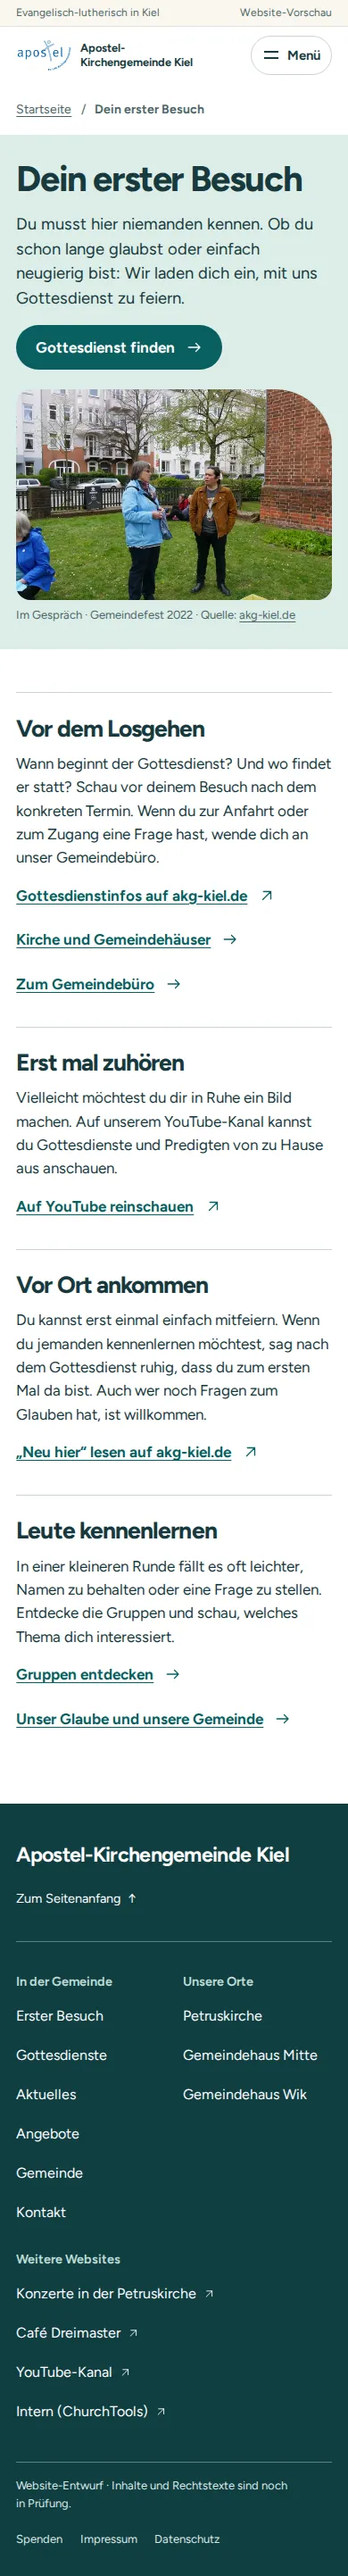
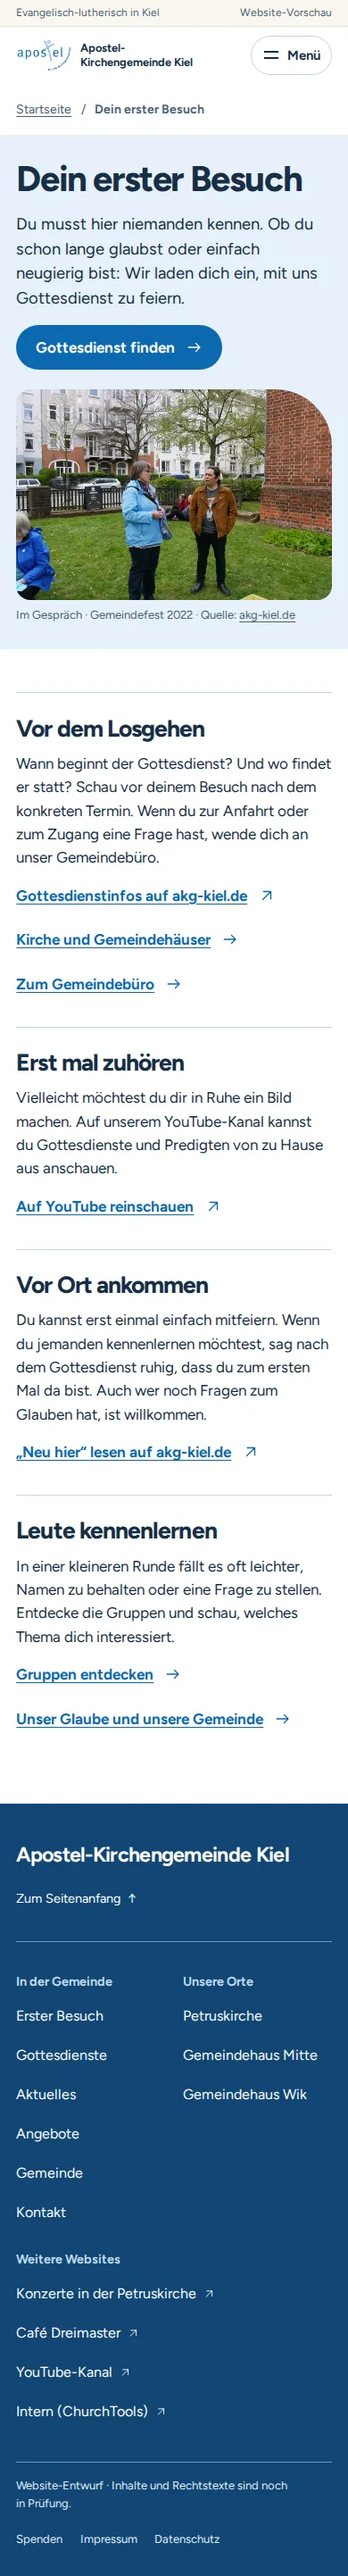
Lead with Apostel blue and keep the no-script visit accessible

diff --git a/src/styles/site.css b/src/styles/site.css
@@ -9,14 +9,15 @@
 }
 :root {
   --display: Figtree, system-ui, sans-serif;
-  --ink: #183a3e;
-  --deep: #103e41;
-  --sea: #095f60;
+  --ink: #172f46;
+  --deep: #124675;
+  --blue: #0c68b0;
+  --sky: #e6f1fa;
   --mint: #dceee8;
   --sand: #faf7ef;
   --sun: #ffe39c;
-  --muted: #4d6668;
-  --line: #c8d6d1;
+  --muted: #4a6175;
+  --line: #c6d5df;
   --focus: #ac4216;
   --space: clamp(3rem, 6vw, 6rem);
   --gutter: clamp(16px, 4.7vw, 4.5rem);
@@ -114,7 +115,7 @@ main:focus {
   line-height: 1.3;
 }
 .action {
-  background: var(--sea);
+  background: var(--blue);
   color: white;
   text-decoration: none;
   border-radius: 100vmax;
@@ -126,7 +127,7 @@ main:focus {
   background: var(--deep);
 }
 .route-link {
-  color: var(--sea);
+  color: var(--blue);
   padding-block: 0.5em;
 }
 a svg {
@@ -242,7 +243,7 @@ a svg {
 }
 .wide-nav a[aria-current],
 .menu a[aria-current] {
-  color: var(--sea);
+  color: var(--blue);
   text-decoration-thickness: 2px;
 }
 .intern-link,
@@ -276,7 +277,7 @@ a svg {
 }
 .foot-head {
   padding-bottom: 1.6rem;
-  border-bottom: 1px solid #608080;
+  border-bottom: 1px solid #7194b4;
 }
 .foot-head p {
   font-weight: 680;
@@ -295,7 +296,7 @@ a svg {
 .foot-columns h2 {
   font: 650 0.9rem/1.4 var(--display);
   letter-spacing: 0;
-  color: #bddbd4;
+  color: #c3ddf3;
   margin-bottom: 0.45rem;
 }
 .foot-columns a {
@@ -305,10 +306,10 @@ a svg {
   width: 0.8em;
 }
 .foot-end {
-  border-top: 1px solid #608080;
+  border-top: 1px solid #7194b4;
   padding-top: 1rem;
   font-size: 0.8125rem;
-  color: #dce9e5;
+  color: #e0edf7;
 }
 .foot-end nav {
   flex-wrap: wrap;
@@ -332,13 +333,25 @@ a svg {
   .menu summary::-webkit-details-marker {
     display: none;
   }
-  .menu-sheet {
+  /* Only overlay content when focus-exit dismissal has been installed. */
+  .menu[open]:not([data-overlay]) {
+    flex-basis: 100%;
+  }
+  .menu[open]:not([data-overlay]) summary {
+    width: fit-content;
+  }
+  .menu[open]:not([data-overlay]) .wrap {
+    width: 100%;
+  }
+  .menu[data-overlay] .menu-sheet {
     position: absolute;
     inset: 100% 0 auto;
+  }
+  .menu-sheet {
     background: white;
     color: var(--ink);
     border-block: 1px solid var(--line);
-    box-shadow: 0 1.5rem 2rem -1.2rem #123a4050;
+    box-shadow: 0 1.5rem 2rem -1.2rem #14395d50;
   }
   .menu-sheet > .wrap {
     padding-block: 0.7rem 1.2rem;

diff --git a/src/styles/interior.css b/src/styles/interior.css
@@ -41,7 +41,7 @@
   margin-top: var(--space);
 }
 .in-visit {
-  background: var(--mint);
+  background: var(--sky);
   padding-block: clamp(1.75rem, 4.7vw, 4rem);
 }
 .in-visit .parish-photo img {
@@ -79,7 +79,7 @@
   background: var(--sand);
 }
 .in-tint {
-  background: var(--mint);
+  background: var(--sky);
 }
 .in-panel {
   background: var(--sand);
@@ -162,7 +162,7 @@
 }
 .in-history dt {
   font-size: 1.45rem;
-  color: var(--sea);
+  color: var(--blue);
   font-weight: 700;
 }
 .in-detail {
@@ -224,7 +224,7 @@
   margin-top: 0.4rem;
 }
 .in-news-row h3 a {
-  color: var(--sea);
+  color: var(--blue);
 }
 .in-news-row h3 svg {
   display: inline;
@@ -295,7 +295,7 @@
   place-items: center;
   border-radius: 50%;
   background: var(--mint);
-  color: var(--sea);
+  color: var(--blue);
 }
 .in-plus::before,
 .in-plus::after {

diff --git a/src/styles/welcome.css b/src/styles/welcome.css
@@ -64,7 +64,7 @@
   max-width: 40ch;
   font-size: clamp(1.12rem, 1.55vw, 1.34rem);
   line-height: 1.45;
-  color: #eff7f4;
+  color: #f0f6fb;
 }
 .welcome-actions {
   display: flex;
@@ -162,7 +162,7 @@
   border-top: 1px solid var(--line);
   text-decoration: none;
   font-weight: 680;
-  color: var(--sea);
+  color: var(--blue);
 }
 .together-choices a:hover,
 .update-list a:hover {
@@ -184,7 +184,7 @@
   display: inline-flex;
   align-items: center;
   min-height: 44px;
-  color: var(--sea);
+  color: var(--blue);
 }
 .updates {
   background: var(--sand);

diff --git a/docs/design.md b/docs/design.md
@@ -2,7 +2,7 @@
 
 Ausgangspunkt ist [die bestehende Gemeindewebsite](https://akg-kiel.de/). Beim Rundgang fallen die Einladung zum Gottesdienst und der Eintrag „Neu hier“ unter vielen Angeboten auf. Der Neubau macht daraus einen eigenen Weg **Erster Besuch**: Was erwartet mich, wo erfahre ich etwas über die Gemeinde und wie komme ich zum Gemeindebüro? Wer schon dazugehört, kann Gottesdienste, Aktuelles und Gruppen direkt ansteuern.
 
-**Gestaltung:** eine breite Aufnahme aus einem tatsächlichen Gottesdienst, darunter die Einladung auf tiefem Petrol. Die Texte liegen nicht über den Gesichtern. Der erste Link führt zu `/besuch`; der folgende Terminstreifen funktioniert mit oder ohne freigegebene Daten. Schrift: lokal geladene Figtree. Original-Logo und [belegte Bildquellen](brand-spec.md) bleiben. Die alte Galerie, ihre Generatoren, Seitenbausteine und Styles sind kein Bestandteil dieser Website. Fotos können später über das zentrale Bildregister ersetzt werden, ohne die Besuchswege neu zu bauen.
+**Gestaltung:** eine breite Aufnahme aus einem tatsächlichen Gottesdienst, darunter die Einladung auf tiefem Blau. Das Original-Logo gibt den Blauton für Links und Aktionen vor; Gelb hebt die Einladung hervor, Mint den anschließenden Gottesdienststreifen. Die Texte liegen nicht über den Gesichtern. Der erste Link führt zu `/besuch`; der folgende Terminstreifen funktioniert mit oder ohne freigegebene Daten. Schrift: lokal geladene Figtree. Original-Logo und [belegte Bildquellen](brand-spec.md) bleiben. Die alte Galerie, ihre Generatoren, Seitenbausteine und Styles sind kein Bestandteil dieser Website. Fotos können später über das zentrale Bildregister ersetzt werden, ohne die Besuchswege neu zu bauen.
 
 **Produktgrenzen:** Konzerte werden nicht beworben wie eine zweite Startseite. Der Programmverweis führt auf `petruskirche.events`, das Café zu seinem eigenen Auftritt. Für die angekündigte Gebäudeseite gibt es keinen geratenen Link. Die Vorschau kann auf die derzeitige Gemeindewebsite verweisen, statt ungeprüfte Angaben abzuschreiben. Keine Einbettung oder WordPress-Abfrage beim Seitenaufruf.
 

diff --git a/docs/review-akg-130/README.md b/docs/review-akg-130/README.md
@@ -11,4 +11,8 @@ Aufnahmen des tatsächlichen Astro-/Worker-Builds ohne Live-Token. Die WebP-Date
 
 Bei der Sichtprüfung standen nicht die früheren Entwürfe, sondern die Wege zwischen den Seiten im Vordergrund. So bekam der Besuchsweg einen direkten Verweis auf die Gemeindeorte; in der Vorschau führen klar beschriftete Links auch zu den Angaben auf der aktuellen Website. Ein Bildquellenlink ist bedienbar, das Foto selbst kein versteckter Button. Nach dem Sprung zum Hauptinhalt ist die erste Aktion der Besuchsweg und nicht der Fotografennachweis.
 
+Nach der Farbrückmeldung führen das gemessene Logo-Blau und seine Abstufungen durch die Seiten; Mint und Gelb bleiben als Akzente. Die Kontraste liegen bei 5,80:1 für Weiß auf Logo-Blau, 4,81:1 für Logo-Blau auf Mint und 7,75:1 für Gelb auf Dunkelblau.
+
+Die Schlussprüfung zeigte, dass das aufgeklappte mobile Menü ohne JavaScript den nächsten Tastaturfokus verdeckte. Es schiebt den Inhalt jetzt nach unten; der Browsertest tabbt bis zum Link „Startseite“ hinter dem Menü und prüft, dass er nicht verdeckt ist. Im befüllten Test findet die Gruppensuche auch den vollständigen angezeigten Namen mit einem Zeilenumbruch in der Quelle. Ein lokaler Worker-Test rendert den Besuchsweg, Kontakt und Spenden für beide künftigen Produktionshosts, ohne die heutige Website aufzurufen: Die temporären Verweise sind dort nicht vorhanden.
+
 `pnpm exec vp run test:preview` prüft die Hauptwege mit und ohne JavaScript, bei Bildausfall und vergrößerter Schrift. Der getrennte Fixture-Build prüft auch gefüllte Listen, Detailseiten und den Unterschied zwischen gesperrten, leeren, nicht erreichbaren und veralteten Quellen. Diese Daten landen nicht in der Vorschau.

diff --git a/docs/brand-spec.md b/docs/brand-spec.md
@@ -5,6 +5,10 @@
 - [Apostel-Logo](../public/images/apostel-logo.png): unveränderte [Wort-/Bildmarke von akg-kiel.de](https://akg-kiel.de/wp-content/uploads/2019/09/logo-akg-500px.png), 500 × 272 px. Auf ausdrücklichen Nutzerwunsch beibehalten. Auf hellem Grund im Originalverhältnis zeigen, nicht nachzeichnen, umfärben oder beschneiden. Es ist keine offene Lizenz dokumentiert.
[1 lines of base64/hex data omitted]
 
+## Farbe
+
+Das Blau der Wortmarke (`#0C68B0`, aus der Logo-Datei gemessen) führt bei Links, aktiver Navigation und Schaltflächen. Einladung und Fußzeile verwenden die dunklere Website-Abstufung `#124675`, die Besuchsseite einen hellen Blauton. Mint kennzeichnet den Gottesdienststreifen und Datenhinweise; warmes Gelb hebt auf Dunkelblau „Apostel.“ und „Mein erster Besuch“ hervor. Die Abstufungen sind für diese Website gewählt, nicht als allgemein verbindliche Markenwerte ausgegeben.
+
 ## Fotos: Herkunft und Auslieferungsentscheidung
 
 [Das Bildregister](../src/lib/photos.mjs) führt pro Motiv die Originalquelle, den Alternativtext, bekannte Urheber, Lizenz bzw. Archivkennzeichnung und `publicApproved`. Die WebP-Varianten liegen in [`public/images/`](../public/images/). Bilder lokal ausliefern, nicht von WordPress, Commons oder einem Bilddienst nachladen.
